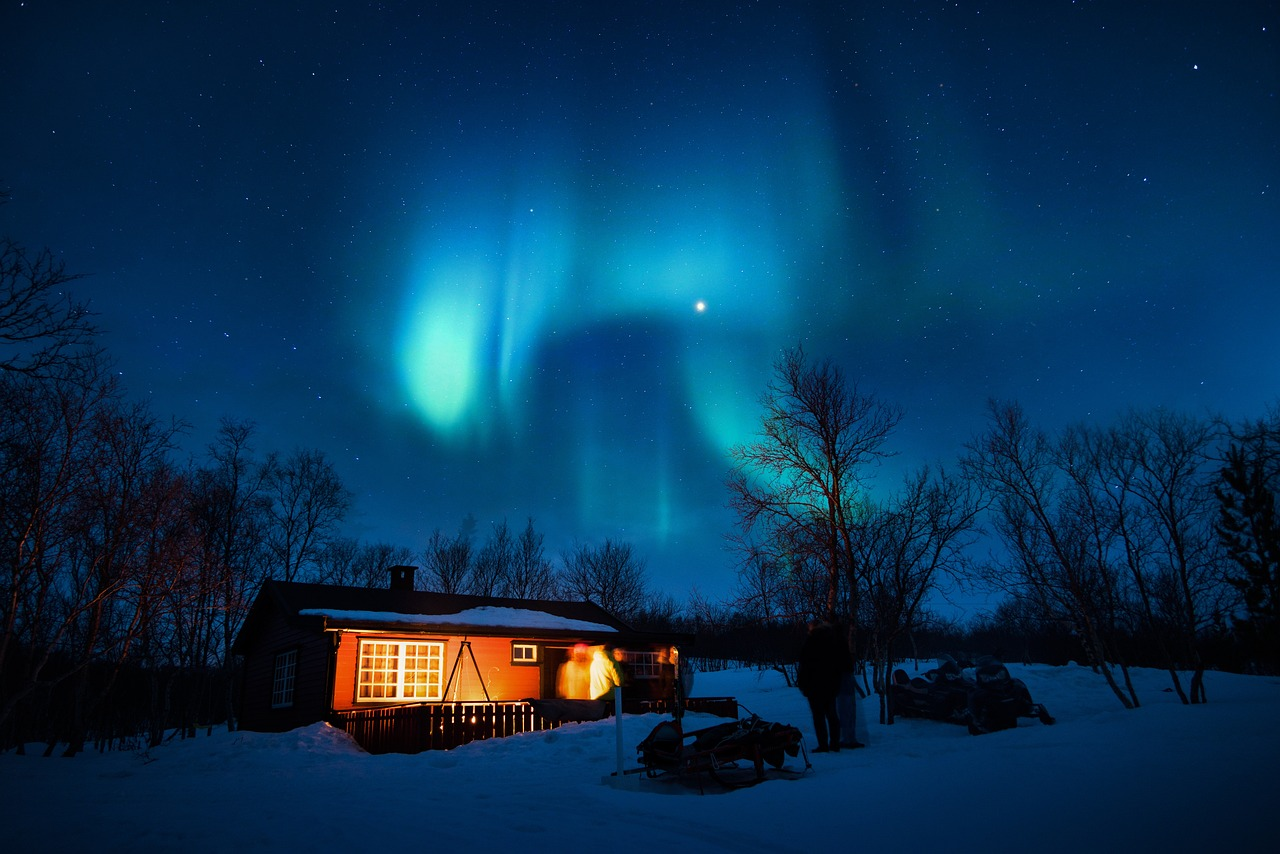
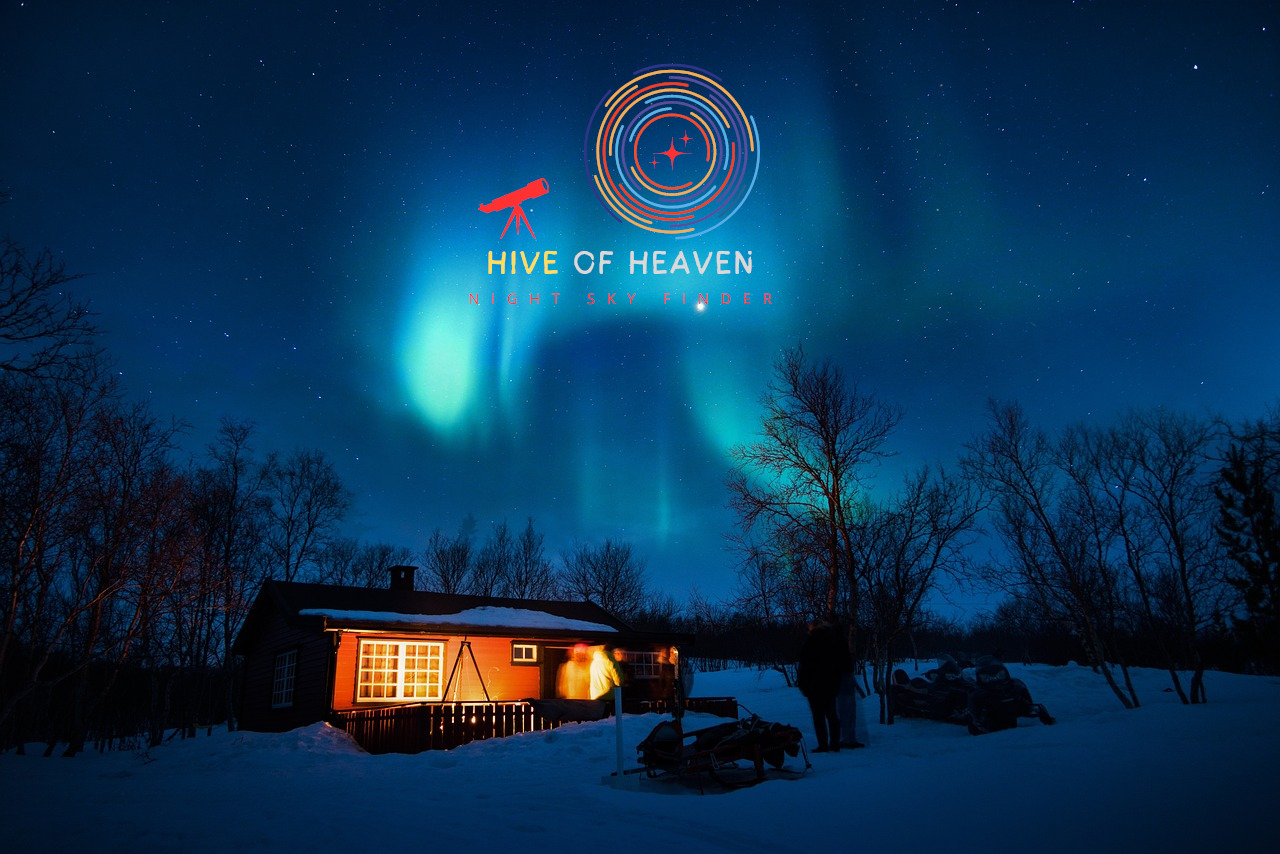
homepage redesign minor, profile card fix

Changed region(s): [[0.375, 0.0609, 0.5938, 0.3653]]

diff --git a/src/pages/About.jsx b/src/pages/About.jsx
@@ -8,17 +8,21 @@ import community from "./community.png"
 import telescopeicon from "./telescopeicon.png"
 import markerImage from "../components/markerImage.png"
 import moonapi from "./moonapi.png"
-
+import HiveLogoGif from "./HiveLogoGif.gif"
 export default function About(){
 
 
 return(
 
 <div> 
-<h1 style={{color:"orange"}}>Hive of Heaven</h1>
-<h2 style={{color:"purple"}}>Community Night Sky Finder</h2>
+{/* <Link to="/about"> */}
+  {/* <img className="hiveLOGO" src={HiveLogoGif}></img> */}
+  {/* </Link> */}
 
-<img style={{width:"300px"}} src={community}></img>
+{/* <h1 style={{color:"orange"}}>Hive of Heaven</h1> */}
+{/* <h2 style={{color:"purple"}}>Community Night Sky Finder</h2> */}
+
+{/* <img style={{width:"300px"}} src={community}></img> */}
 {/* <div style={{backgroundColor:"#FFFDDF", padding:"30px", borderRadius:"20px"}}> */}
 <h4 style={{margin:"50px"}}>Embark on a celestial journey with our community-powered app, a mesmerizing portal where the cosmos converges with human wonder. Within this celestial haven, users weave tales of starry night destinations, crafting geotagged posts that illuminate the secrets of the nocturnal sky. </h4>
 
@@ -31,21 +35,21 @@ return(
 <img src={markerImage}></img>
 <div>This Marker on the Map denotes a Point of Interest by a Community User</div>
 </div> */}
-<h2 style={{color:"purple"}}>APIs Used</h2>
+{/* <h2 style={{color:"purple"}}>APIs Used</h2>
 <div>
-<a href="https://locationiq.com/"><img src={loqationIQLOGO}></img></a>
+<a href="https://locationiq.com/"><img style={{width:"auto", height:"auto"}} src={loqationIQLOGO}></img></a>
 <br></br>
-<a href="https://github.com/shavik/visible-planets-api/blob/master/README.md"><img  src={VisiblePlanetsAPILOGO}></img></a>
+<a href="https://github.com/shavik/visible-planets-api/blob/master/README.md"><img style={{width:"auto", height:"auto"}} src={VisiblePlanetsAPILOGO}></img></a>
 <br></br>
-<a href="https://developers.google.com/maps/apis-by-platform"><img  src={googlemapsAPI}></img></a>
+<a href="https://developers.google.com/maps/apis-by-platform"><img style={{width:"auto", height:"auto"}} src={googlemapsAPI}></img></a>
 <br></br>
-<a href="https://moon-api.com/"><img  src={moonapi}></img></a>
+<a href="https://moon-api.com/"><img style={{width:"auto", height:"auto"}} src={moonapi}></img></a>
 
 </div>
 
 <br></br>
 <br></br>
-<br></br>
+<br></br> */}
 {/* <div className="card">
   
   <img style={{width:'100%'}} src={hiveheavenLOGO} alt="sharukh"></img>

diff --git a/src/pages/Home.jsx b/src/pages/Home.jsx
@@ -18,6 +18,7 @@ import HiveLogoGif from "./HiveLogoGif.gif"
 import "./home.css"
 import ControlledCarousel from "../components/ControlledCarousel";
 import NewMoonNext from "./NewMoonNext";
+import About from "./About";
 export default function Home({ setEmergencyType, loginUsername, accessToken }) {
         const navigate = useNavigate(); // Initialize the navigation function
         const [toggle1, setToggle1] = useState(false);
@@ -138,15 +139,17 @@ function modal5Click(){
   <div className="caro"><ControlledCarousel /></div>
   <div  className="logoabout">
 
-
-<Link to="/about"><img className="hiveLOGO" src={HiveLogoGif}></img></Link>
+<About/>
+{/* <Link to="/about"><img className="hiveLOGO" src={HiveLogoGif}></img></Link> */}
         
   </div>
   <div className="buttons">
         <br></br>
-<button style={{border: "2px solid #373436"}} onClick={modal1Click}>Low Light Pollution</button>
-<button style={{border: "2px solid #373436"}} onClick={modal2Click}>Moderate Light Pollution</button>
-<button style={{border: "2px solid #373436"}} onClick={modal3Click}>High Light Pollution</button>
+        <h3 style={{color:"yellowgreen"}}>Below are Buttons to Make a Post</h3>
+        <h7 style={{color:"yellowgreen"}}>Click one to Find Out More Information</h7>
+<button style={{border: "2px solid #373436",backgroundColor:"black"}} onClick={modal1Click}>Low Light Pollution</button>
+<button style={{border: "2px solid #373436",backgroundColor:"rgb(92, 86, 73)"}} onClick={modal2Click}>Moderate Light Pollution</button>
+<button style={{border: "2px solid #373436",backgroundColor:"rgb(120, 102, 62)"}} onClick={modal3Click}>High Light Pollution</button>
 <button style={{border: "2px solid #373436"}} className="northernLights" onClick={modal4Click}>Northern Lights</button>
 <button style={{border: "2px solid #373436"}} className="fireBall" onClick={modal5Click}>Meteoric Events</button>
 <br></br>
@@ -155,7 +158,7 @@ function modal5Click(){
 
 
   <div style={{border:"2px solid #373436",borderRadius:"7px"}} className="welcome">
-  <div style={{fontSize:"23px",backgroundColor:"gray",borderRadius:"7px"}}>Days until next new moon: <NewMoonNext/> </div>    
+  <div className="newMoonBack" style={{fontSize:"23px", color:"yellowgreen",borderRadius:"7px"}}>Days until next new moon: <NewMoonNext/> </div>    
         <br></br>
         <br></br>
         <h3>{!!loginUsername ? "Welcome" : "Please Login to view all Features"}</h3>

diff --git a/src/pages/ProfileCard.jsx b/src/pages/ProfileCard.jsx
@@ -13,9 +13,10 @@ if (latestPost) {
   return (
     <div style={{ width: "350px", margin: "auto", border:"solid", borderRadius:"10px",
     background: "linear-gradient(90deg, rgba(13,177,1,0.6530987394957983) 30%, rgba(0,255,217,0.5102415966386555) 84%)" }}>
+      <br></br>
       <img src={latestPost.image_url} alt="profile icon" style={{ width: "300px", height: "300px", borderRadius: "50%", border:"solid" }} />
       <h1>Welcome Back</h1>
-      <p style={{color:"green"}} className="title">{loginUsername}</p>
+      <p style={{color:"white"}} className="title">{loginUsername}</p>
       <p>Hive of Heaven User</p>
     </div>
   );

diff --git a/src/pages/home.css b/src/pages/home.css
@@ -166,6 +166,7 @@ background-color: #373436; }
       }
       
       .logoabout { 
+        display: inline-block;
         grid-area: 1 / 1 / 2 / 2; 
         text-align: center;
       }      
@@ -189,7 +190,9 @@ background-color: #373436; }
     }
 
 
-
+.logoabout{
+  display: none;
+}
 
   }
 
@@ -268,3 +271,15 @@ body {
   background: #000;
 }
 
+
+.newMoonBack{
+  background-image: url("./moonBackground.jpg");
+  background-size: cover;
+
+}
+
+.logoabout{
+  height:100%;
+  width: 100%;
+  overflow:scroll;
+}
